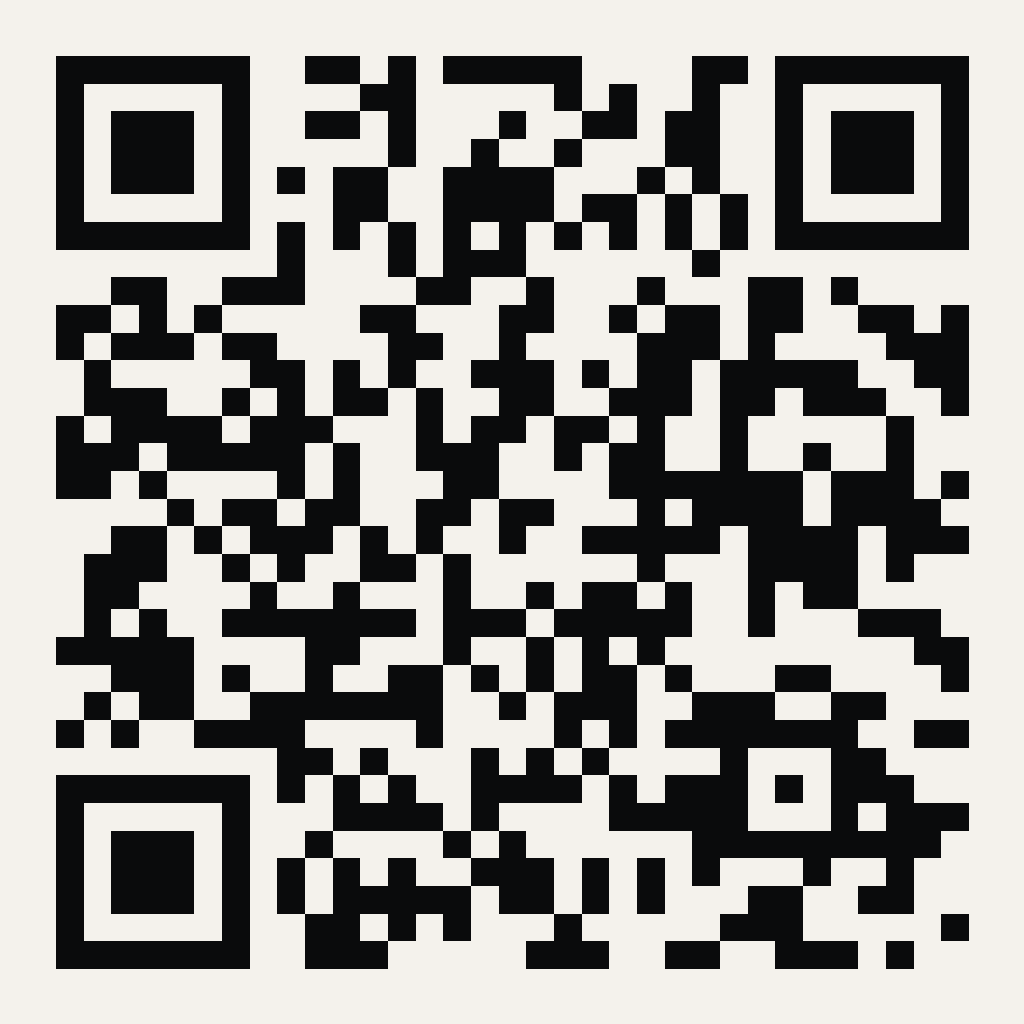
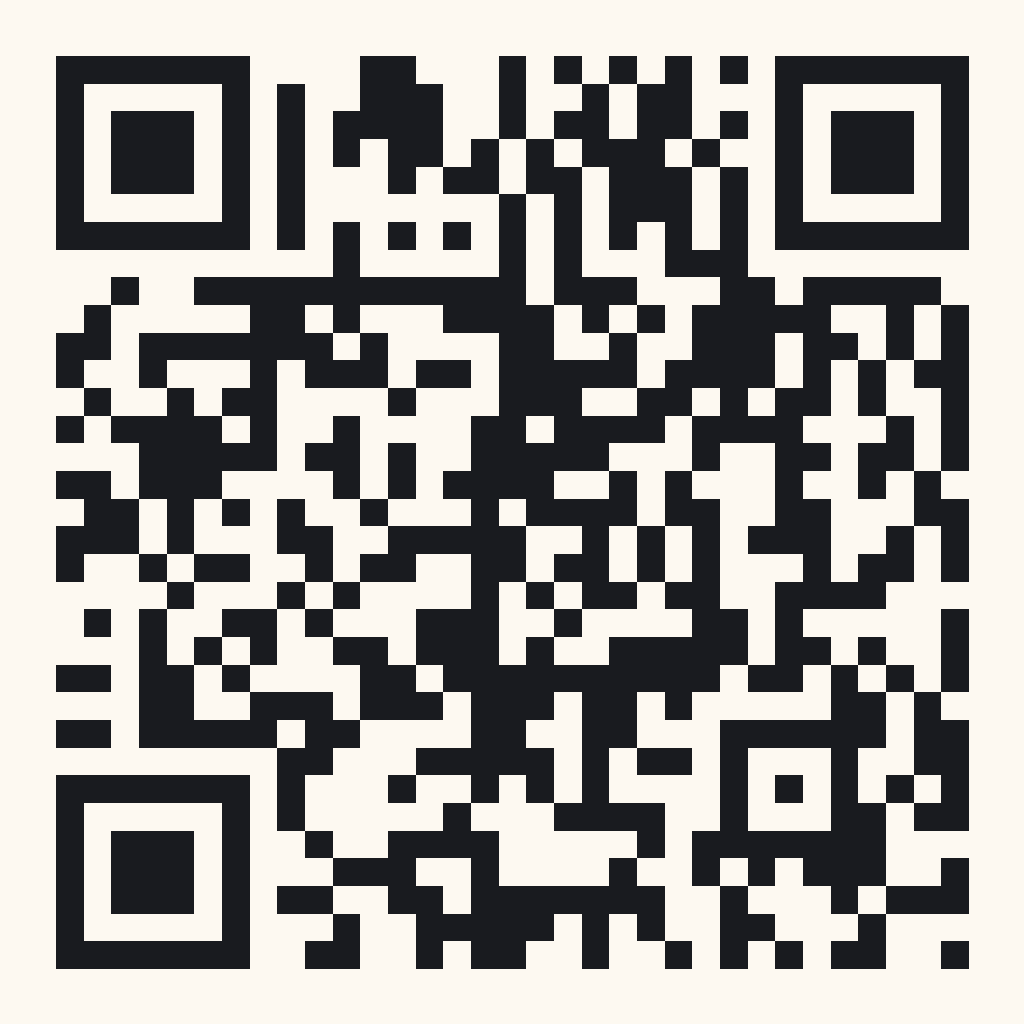
fix: 账号改名后迁移站点地址至 weiyuan-qianfu.github.io
仓库随账号改名更名为 weiyuan-qianfu.github.io；同步 site 配置、
站内仓库链接、README/HANDOFF 地址，并重生成二维码与海报

diff --git a/src/data/work.ts b/src/data/work.ts
@@ -31,7 +31,7 @@ export const works: WorkItem[] = [
     name: '这个站本身',
     stack: 'Astro / TypeScript / CSS',
     desc: '零框架运行时的静态收藏箱：内容集合、双主题、自托管字体，push 即部署。',
-    link: 'https://github.com/JiangShi-73/JiangShi-73.github.io',
+    link: 'https://github.com/weiyuan-qianfu/weiyuan-qianfu.github.io',
   },
   {
     name: '其余项目',

diff --git a/README.md b/README.md
@@ -4,7 +4,7 @@
 
 视觉走 NASA-punk「航天局印刷品」路线：米白纸面、墨黑粗规则线、赭红 / 藏青 / 芥末黄三块饱和色、编号与等宽标注；档案舱、角色、画三个页面用同一套版式的深色 token。构建产物是纯静态 HTML，零框架运行时。
 
-**线上地址：<https://jiangshi-73.github.io/>**
+**线上地址：<https://weiyuan-qianfu.github.io/>**
 
 > `docs/` 里的截图是旧版预览，仅作留档，可以随时删。
 
@@ -140,7 +140,7 @@ draft: false
 
 ## 发布
 
-仓库：[JiangShi-73/JiangShi-73.github.io](https://github.com/JiangShi-73/JiangShi-73.github.io)（GitHub 用户主页仓库，站点在根路径下，不需要 `base`）。
+仓库：[weiyuan-qianfu/weiyuan-qianfu.github.io](https://github.com/weiyuan-qianfu/weiyuan-qianfu.github.io)（GitHub 用户主页仓库，站点在根路径下，不需要 `base`）。
 
 改完内容推上去就自动发布：
 
@@ -158,7 +158,7 @@ GitHub Actions（[deploy.yml](.github/workflows/deploy.yml)）自动构建并发
 
 1. 在域名所在的阿里云账号里改解析：
    - `@`  A 记录 → `185.199.108.153` / `185.199.109.153` / `185.199.110.153` / `185.199.111.153`
-   - `www` CNAME → `jiangshi-73.github.io`
+   - `www` CNAME → `weiyuan-qianfu.github.io`
 2. 把 `astro.config.mjs` 的 `site` 改成 `'https://jiangshi.com'`
 3. 新建 `public/CNAME`，内容就一行：`jiangshi.com`
 4. 仓库 Settings → Pages → Custom domain 填 `jiangshi.com`，勾上 Enforce HTTPS
@@ -167,7 +167,7 @@ GitHub Actions（[deploy.yml](.github/workflows/deploy.yml)）自动构建并发
 
 ## 二维码
 
-指向站点首页的二维码，扫一下直接打开 <https://jiangshi-73.github.io/>：
+指向站点首页的二维码，扫一下直接打开 <https://weiyuan-qianfu.github.io/>：
 
 | 文件 | 用途 |
 | --- | --- |

diff --git a/HANDOFF.md b/HANDOFF.md
@@ -15,8 +15,8 @@
 
 | | |
 | --- | --- |
-| 线上 | <https://jiangshi-73.github.io/> |
-| 仓库 | <https://github.com/JiangShi-73/JiangShi-73.github.io>（分支 `main`） |
+| 线上 | <https://weiyuan-qianfu.github.io/> |
+| 仓库 | <https://github.com/weiyuan-qianfu/weiyuan-qianfu.github.io>（分支 `main`） |
 | 部署 | GitHub Pages + GitHub Actions（push 即自动构建） |
 | 构建产物 | 纯静态 HTML，13 个页面，约 600KB |
 
